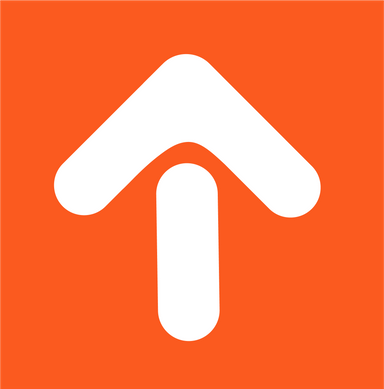
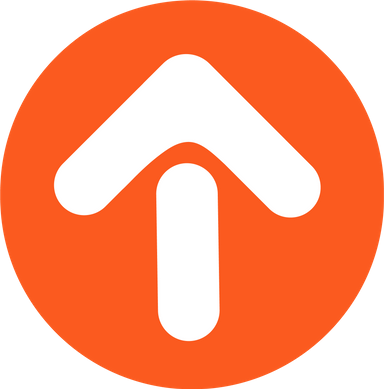
new version

diff --git a/flutter_service_worker.js b/flutter_service_worker.js
@@ -91,18 +91,23 @@ const RESOURCES = {
 "canvaskit/profiling/canvaskit.wasm": "95e736ab31147d1b2c7b25f11d4c32cd",
 "favicon.png": "5dcef449791fa27946b3d35ad8803796",
 "firebase-messaging-sw.js": "08223be5dbde565abab764d5e1a0c739",
-"icons/icon-128x128.png": "4a3e2292a8f9d301be74fb5a7203b348",
-"icons/icon-144x144.png": "62309ea72b9bb108c03c5aec5ebf970e",
-"icons/icon-152x152.png": "8a90e6537ae37af776e22ed4f4ef2e8f",
-"icons/icon-192x192.png": "0089adbeea2dd76474cefc3606a80e6e",
-"icons/icon-384x384.png": "f67de9990ddb4bb99a166c6128dd95d5",
-"icons/icon-512x512.png": "c98b4cf1aeb98f971ed7c3f92b40ed7b",
-"icons/icon-72x72.png": "895482c1a19bf5d13edbe12a9e27794a",
-"icons/icon-96x96.png": "6f53fbf2591ce8d16e9200bc2d4ac225",
-"index.html": "2afad1e875754acc7bd7c501bc685a60",
-"/": "2afad1e875754acc7bd7c501bc685a60",
+"icons/apple-touch-icon.png": "1a6aa37ab4e2d351ce031db4e24f32da",
+"icons/favicon-16x16.png": "5c5cd67b3b484147fac5551296407e95",
+"icons/favicon-32x32.png": "61928e1ff8b5b292dfac4eb6e06e8cfb",
+"icons/favicon.ico": "20e3191032f202e0ed24643d78bb7bb9",
+"icons/icon-128x128.png": "a061883b3f11f13c2baa30aac08f3fc9",
+"icons/icon-144x144.png": "b45eff947a471d80654537d3a3cfbcb6",
+"icons/icon-152x152.png": "920567d9891dd56c389ed7838aef687f",
+"icons/icon-192x192.png": "df241a43c026f6d2862ddaef57b4b087",
+"icons/icon-384x384.png": "f84f3bfd56c992e746334fa1610ade88",
+"icons/icon-512x512.png": "5cb1a43bd7f1a73b4f4082a74be0fba9",
+"icons/icon-72x72.png": "1ab04f66928cdbd2004b06b1aac15ac4",
+"icons/icon-96x96.png": "4b0c158c661300e9b44f5a62529b7441",
+"icons/safari-pinned-tab.svg": "2d955c7c6c25b4e605d8a32ce1f4b82e",
+"index.html": "5d5e11a6de45c8e0617893ede4d169ef",
+"/": "5d5e11a6de45c8e0617893ede4d169ef",
 "main.dart.js": "02db3790e656b71361b27b14c86a140e",
-"manifest.json": "31b8eb00042df2dbafc2712a0157d78b",
+"manifest.json": "aec34fef93874964b6c4b13a3552c0f1",
 "splash_style.css": "0be488bcba16e79f23900cba1b657cc1",
 "version.json": "78e161f81f6945049f273ab515cd3566"
 };

diff --git a/index.html b/index.html
@@ -22,7 +22,10 @@
   <meta name="apple-mobile-web-app-capable" content="yes" />
   <meta name="apple-mobile-web-app-status-bar-style" content="black" />
   <meta name="apple-mobile-web-app-title" content="تاپ" />
-  <link rel="apple-touch-icon" href="icons/Icon-192.png" />
+  <link rel="apple-touch-icon" sizes="180x180" href="icons/apple-touch-icon.png">
+  <link rel="icon" type="image/png" sizes="32x32" href="icons/favicon-32x32.png">
+  <link rel="icon" type="image/png" sizes="16x16" href="icons/favicon-16x16.png">
+  <link rel="mask-icon" href="icons/safari-pinned-tab.svg" color="#ff641e">
 
   <title>تاپ</title>
   <meta name="viewport" content="width=device-width, initial-scale=1.0, maximum-scale=1.0, user-scalable=no" />
